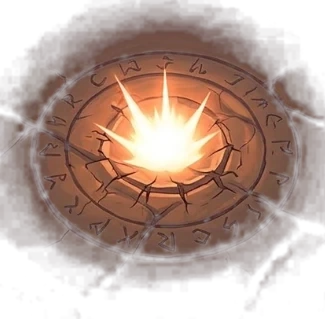
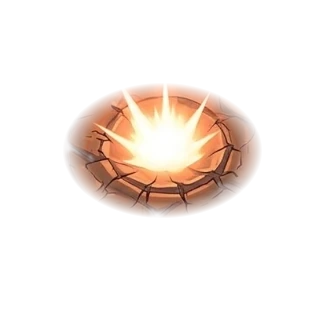
철퇴 충격파: 바닥 마법진 제거 (베타 1.262)
Claude-Session: https://claude.ai/code/session_01EFTEodMUbbTSUTixRFZg7z

diff --git a/client/src/main.ts b/client/src/main.ts
@@ -308,8 +308,7 @@ async function main() {
   // 철퇴 투척: 날아가는 철퇴, 궤적 3컷, 적중 충격 4컷(없으면 도형·고리로 대신한다)
   const maceThrownTex = await Assets.load<Texture>("assets/fx/skill_mace_thrown.png").catch(() => null);
   const maceTrailTex = await Promise.all([0, 1, 2].map((i) => Assets.load<Texture>(`assets/fx/skill_mace_trail_${i}.png`).catch(() => null)));
-  // 철퇴 충격파: 힘 모으기 룬 원 6컷, 땅을 찍는 충격파 6컷, 갈라진 땅 자국, 급여 금화 아이콘. 없으면 도형으로 대신한다.
-  const slamChargeTex = await Promise.all([0, 1, 2, 3, 4, 5].map((i) => Assets.load<Texture>(`assets/fx/skill_slam_charge_${i}.png`).catch(() => null)));
+  // 철퇴 충격파: 땅을 찍는 충격파 6컷, 갈라진 땅 자국, 급여 금화 아이콘. 없으면 도형으로 대신한다.
   const slamWaveTex = await Promise.all([0, 1, 2, 3, 4, 5].map((i) => Assets.load<Texture>(`assets/fx/skill_slam_wave_${i}.png`).catch(() => null)));
   const slamCrackTex = await Assets.load<Texture>("assets/fx/skill_slam_crack.png").catch(() => null);
   const coinTex = await Assets.load<Texture>("assets/fx/icon_gold_coin.png").catch(() => null);
@@ -1302,8 +1301,6 @@ async function main() {
   const boostEnds = new Map<number, { sp: Sprite; t0: number; ang: number }>(); // 가속이 풀린 자리의 마무리 이펙트
   const boostFx = new Map<number, { sp: Sprite; px: number; py: number; ang: number; burst?: Sprite; burstT?: number; burstDone?: boolean }>(); // 기마 가속 중인 주인공 뒤의 바람 궤적
   const slamFx: { sp: Sprite; age: number; r: number; kind: 0 | 1 }[] = []; // 충격파(0)·갈라진 자국(1)
-  const slamChargeSeen = new Set<number>(); // 이번 프레임에 모으는 중이던 주인공
-  const slamCharges = new Map<number, Sprite>(); // 힘을 모으는 중인 주인공별 룬 원
   const maceHits: { sp: Sprite; age: number; r: number }[] = []; // 던진 철퇴 적중 충격
   const wallPieces = new Map<number, { sp: Sprite; high: boolean; t0: number }[]>(); // 방벽 번호 -> 수정 조각들
   const WALL_PIECE_W = 96; // 조각 하나의 화면 너비(px)
@@ -3011,13 +3008,6 @@ async function main() {
       }
     });
 
-    // 철퇴 충격파를 더 이상 모으지 않는 주인공의 룬 원을 치운다(지난 프레임에 보이지 않은 것)
-    for (const [pid, sp] of [...slamCharges]) {
-      if (slamChargeSeen.has(pid)) continue;
-      sp.destroy();
-      slamCharges.delete(pid);
-    }
-    slamChargeSeen.clear();
     // 공격 예고
     fxLayer.clear();
     // 토너먼트 경기장
@@ -3621,28 +3611,11 @@ async function main() {
         const prog = Math.max(0, Math.min(1, 1 - (p.sm ?? 0) / (p.smMax || 1)));
         const pulse = 0.5 + 0.5 * Math.sin(performance.now() / 60);
         fxLayer.circle(v.x, v.y, R).stroke({ width: 3, color: 0xffc27a, alpha: 0.5 + 0.25 * pulse });
-        if (slamChargeTex.every((t) => t !== null)) {
-          let sp = slamCharges.get(p.id);
-          if (!sp) {
-            sp = new Sprite(slamChargeTex[0]!);
-            sp.anchor.set(0.5);
-            groundFx.addChild(sp);
-            slamCharges.set(p.id, sp);
-          }
-          const t = slamChargeTex[Math.min(4, Math.floor(prog * 5))]!; // 점점 밝은 컷(마지막 컷은 사라지는 컷이라 쓰지 않는다)
-          sp.texture = t;
-          sp.position.set(v.x, v.y);
-          sp.width = R * 2.25;
-          sp.height = (sp.width * t.height) / t.width;
-          sp.alpha = 0.55 + 0.45 * prog;
-          slamChargeSeen.add(p.id);
-        } else {
-          fxLayer
-            .circle(v.x, v.y, R * (0.25 + 0.75 * prog))
-            .fill({ color: 0xff9a3c, alpha: 0.1 + 0.28 * prog })
-            .circle(v.x, v.y, R * (0.25 + 0.75 * prog))
-            .stroke({ width: 2, color: 0xffe6b0, alpha: 0.7 });
-        }
+        fxLayer
+          .circle(v.x, v.y, R * (0.25 + 0.75 * prog))
+          .fill({ color: 0xff9a3c, alpha: 0.1 + 0.28 * prog })
+          .circle(v.x, v.y, R * (0.25 + 0.75 * prog))
+          .stroke({ width: 2, color: 0xffe6b0, alpha: 0.7 });
       }
       if (v && p.wind > 0 && !w.ranged && w.type !== MAGE_TYPE) {
         // 철퇴 준비 동작: 범위가 점점 진하게 차오른다(맞기 직전까지 피하라는 신호가 아니라 휘두르는 타이밍 표시)
